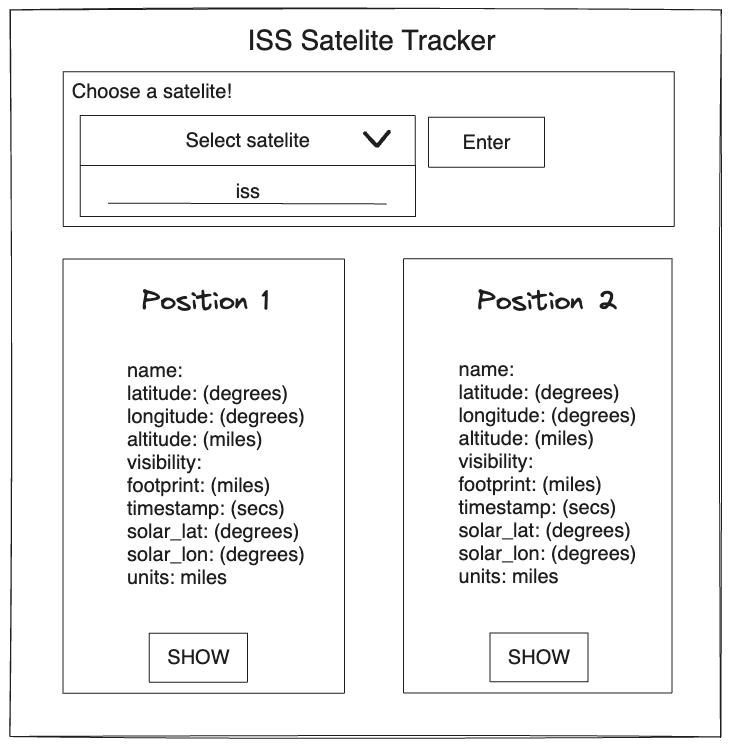
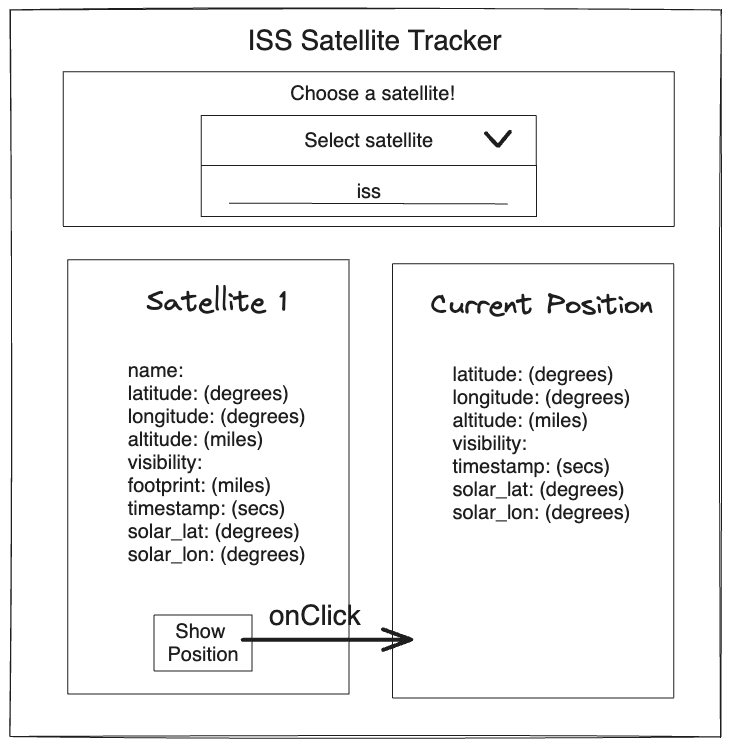
changes to wireframe and a few component methods

diff --git a/src/components/SatelliteForm.js b/src/components/SatelliteForm.js
@@ -1,0 +1,45 @@
+const SatelliteForm = () => {
+
+    const [stateSatellite, setStateSatellite] = useState(   
+        {
+            name: "",
+            latitude: 0,
+            longitude: 0,
+            altitude: 0,
+            visibility: "",
+            footprint: 0,
+            timestamp: 0,
+            solar_lat: 0,
+            solar_lon: 0,
+        }
+    )
+
+    const handleChange = (event) => {      
+        let propertyName = event.target.name;
+        let copiedSatellite = {...stateSatellite};
+        copiedSatellite[propertyName] = event.target.value;
+        setStateSatellite(copiedSatellite)
+    }
+
+    return (
+        <form onSubmit={handleFormSubmit}>
+            <h3>Choose a satellite!</h3>
+            
+            <label htmlFor="satellite">Satellite</label>
+            <select 
+                id="satellite" 
+                name="id"
+                defaultValue="select-satellite"
+                onChange={handleChange}
+            >
+                <option disabled-value="select-satellite">Select a satellite</option>
+                {satelliteOptions}
+            </select>
+            
+            <input type="submit" value="Add Satellite"/>    
+        </form>
+    );
+
+}
+
+export default SatelliteForm;

diff --git a/src/containers/SatelliteContainer.js b/src/containers/SatelliteContainer.js
@@ -1,0 +1,28 @@
+import { useEffect, useState } from "react";
+import SatelliteForm from "../components/SatelliteForm";
+import SatelliteList from "../components/SatelliteList";
+
+const SatelliteContainer = () => {
+
+    const [satellites, setSatellites] = useState([]);
+
+    useEffect(() => {                  
+        const fetchSatellites = async () => {
+            const response = await fetch("https://api.wheretheiss.at/v1/satellites");
+            const data = await response.json();
+            setSatellites(data);
+        }
+        fetchSatellites();
+    }, [])
+    
+    return (
+        <>
+            <h1>ISS Satellite Tracker</h1>
+            <p>a resource for tracking satellites</p>
+            <SatelliteForm />
+            <SatelliteList satellites={satellites}/>
+        </>
+    );
+ }
+
+ export default SatelliteContainer;

diff --git a/src/components/Satellite.js b/src/components/Satellite.js
@@ -1,0 +1,20 @@
+const Satellite = ( { satellite }) => {
+
+    return (
+        <>      
+            <h4>{satellite.name}</h4>
+            <p>latitude: {satellite.latitude} degrees</p>
+            <p>longitude: {satellite.longitude} degrees</p>
+            <p>altitude: {satellite.altitude} miles</p>
+            <p>visibility: {satellite.visibility}</p>
+            <p>footprint: {satellite.footprint} miles</p>
+            <p>timestamp: {satellite.timestamp} seconds</p>
+            <p>solar latitude: {satellite.solar_lat} degrees</p>
+            <p>solar longitude: {satellite.solar_lon} degrees</p>
+            <button> Show Position </button>
+            <hr />
+        </>
+    );
+}
+
+export default Satellite;

diff --git a/src/components/SatelliteList.js b/src/components/SatelliteList.js
@@ -1,0 +1,22 @@
+import Satellite from "./Satellite";
+
+
+const SatelliteList = ({ satellites }) => {
+
+    const satelliteComponents = satellites.map(satellite => {  
+        return <Satellite 
+                key={satellite.id} 
+                satellite={satellite} />
+    })
+
+
+    return (
+        <>
+            <h3>List of Satellites</h3>
+            <hr />
+            {satelliteComponents}
+        </>
+    );
+}
+
+export default SatelliteList;

diff --git a/src/App.js b/src/App.js
@@ -1,10 +1,11 @@
 import './App.css';
+import SatelliteContainer from './containers/SatelliteContainer';
 
 function App() {
   return (
-    <div className="App">
-
-    </div>
+    <>
+      <SatelliteContainer />
+    </>
   );
 }
 
